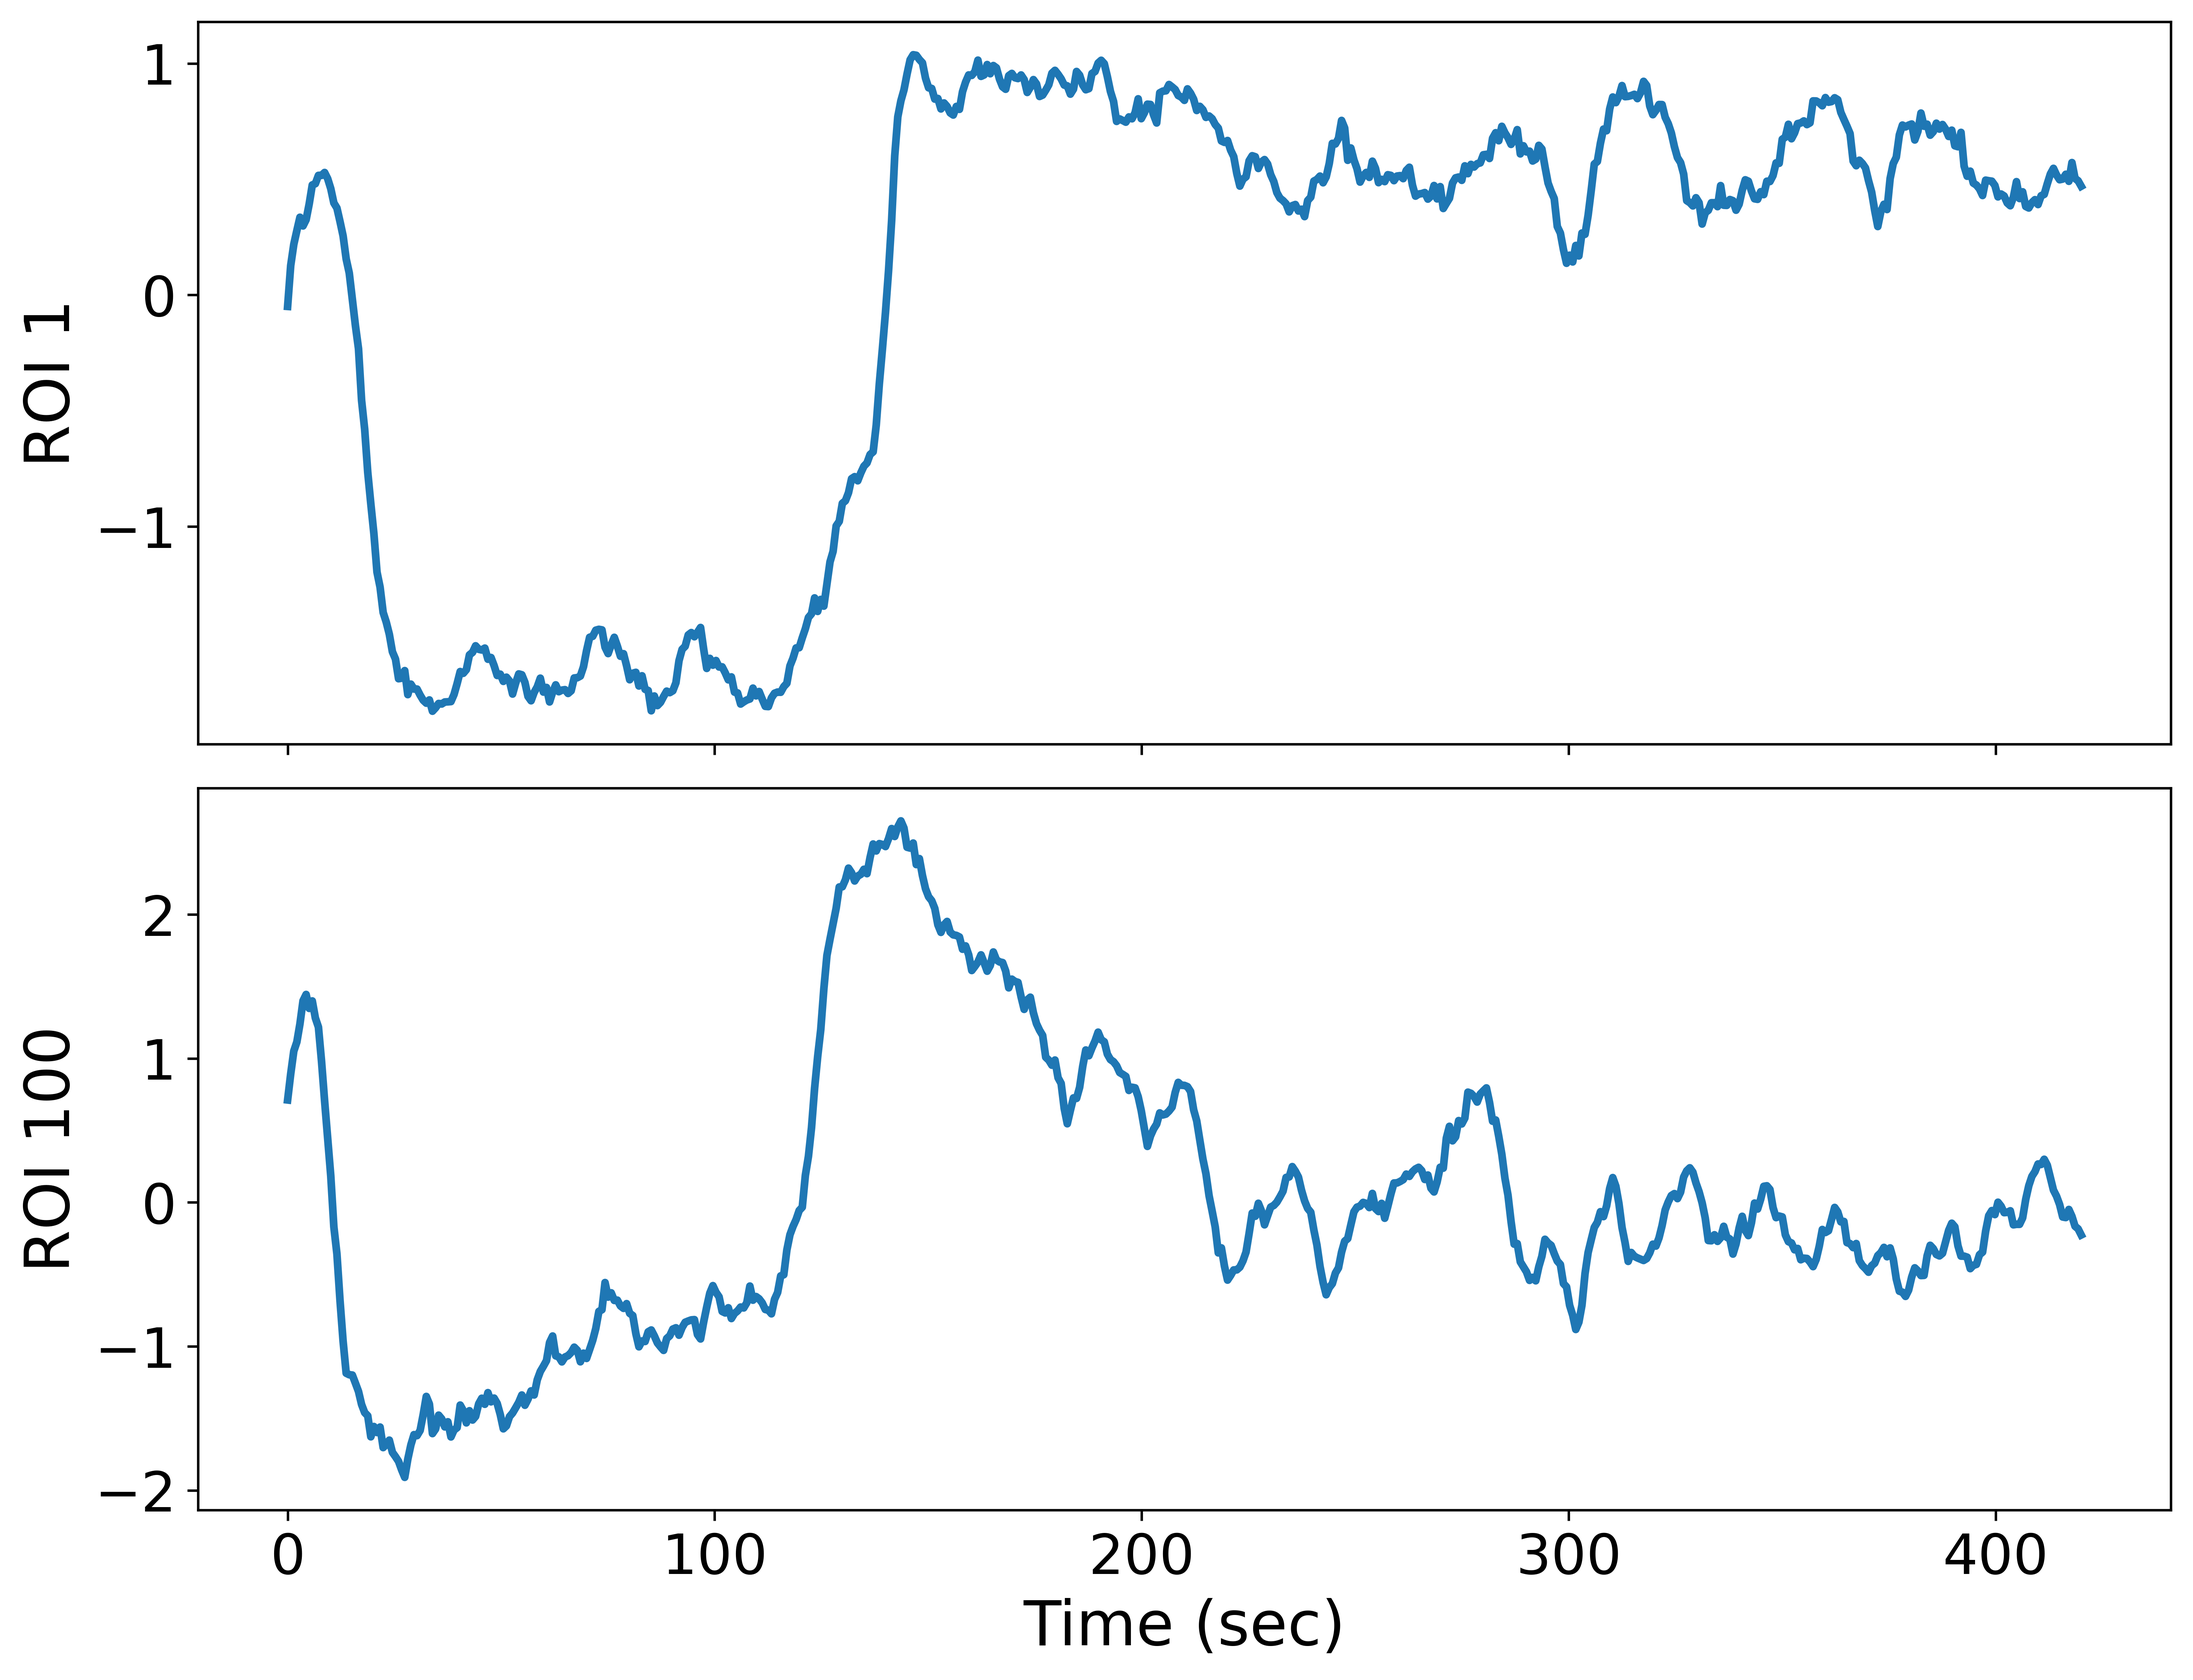
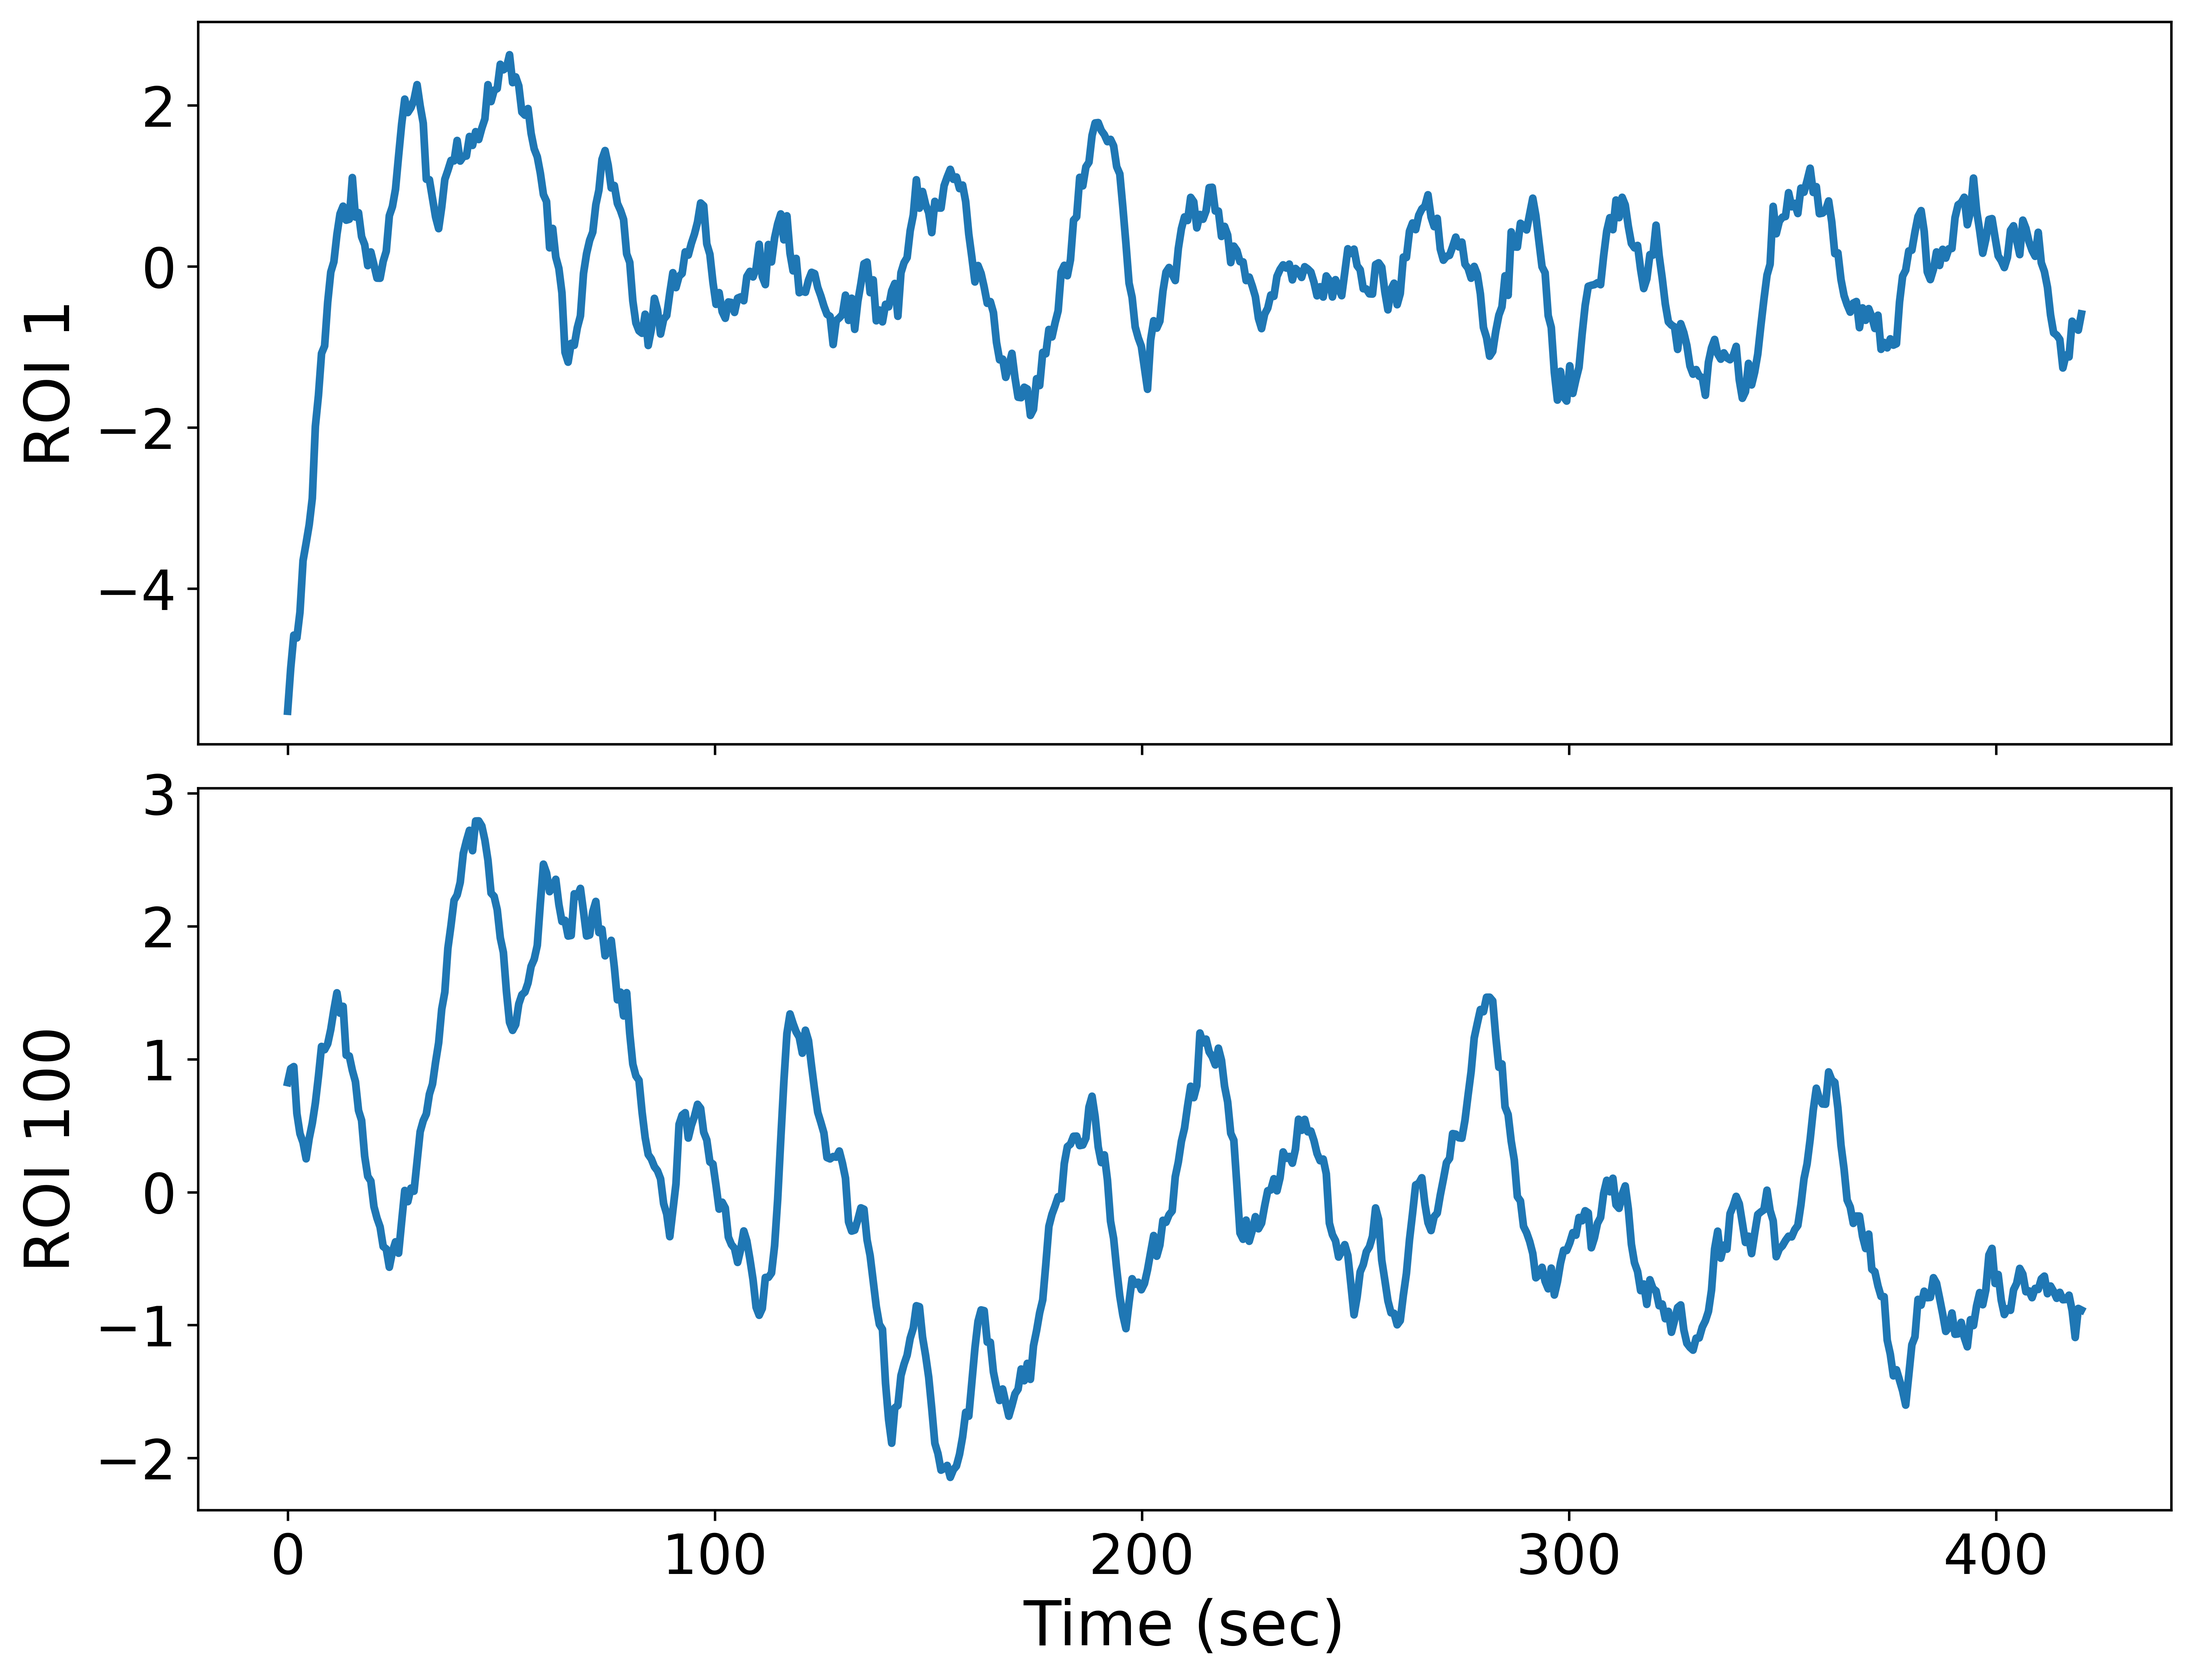
Update

diff --git a/plot_time_series_and_PSDs.py b/plot_time_series_and_PSDs.py
@@ -85,8 +85,8 @@ def main(config):
     augmented_dsfm = np.load(os.path.join(config['path_augmented_dsfm'], config['case'], 'samples', 'samples.npy'))
     
     data = train_data[10]
-    data_rdcmgen = augmented_rdcmgen[10,7][:data.shape[0]]
-    data_crvae = augmented_crvae[10,2][:data.shape[0]]
+    data_rdcmgen = augmented_rdcmgen[10,0][:data.shape[0]]
+    data_crvae = augmented_crvae[10,5][:data.shape[0]]
     data_timevae = augmented_timevae[0][:data.shape[0]]
     data_timevae = (data_timevae - np.mean(data_timevae, axis=0, keepdims=True))/np.std(data_timevae, axis=0, keepdims=True)
     data_timegan = augmented_timegan[0][:data.shape[0]]
@@ -128,6 +128,6 @@ if __name__ == "__main__":
     config['path_augmented_timegan'] = r'/media/student1/ExtremePro/TimeGAN_results'
     config['path_augmented_t2idiff'] = r'/media/student1/ExtremePro/T2IDIFF'
     config['path_augmented_dsfm'] = r'/media/student1/ExtremePro/DSFM_results'
-    config['case'] = 'half_subsampled'
+    config['case'] = 'half_original'
     config['TR'] = 0.72
     main(config)
